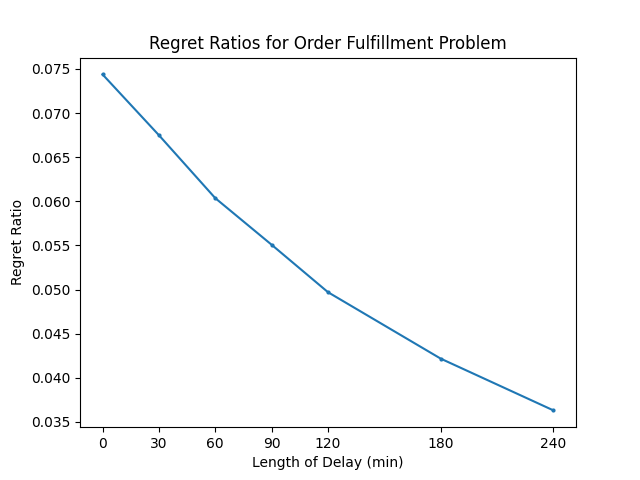
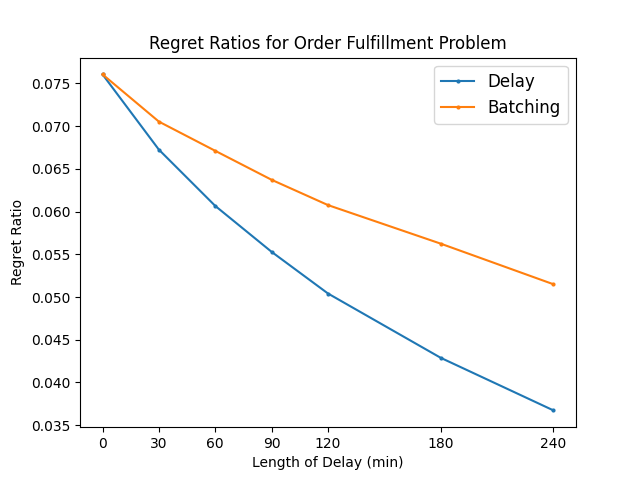
updates

diff --git a/fdc_rdc_fulfillment/online_offline.py b/fdc_rdc_fulfillment/online_offline.py
@@ -6,6 +6,7 @@ from tqdm import tqdm
 from lp_policy import lp_relax, ip, bayes_selector, lp_relax_obj2, ip_obj2
 import copy
 import datetime
+import math
 
 
 def offline(demand, inv_num, consume, flag, obj):
@@ -43,6 +44,10 @@ def current_demand(new_data, prob, order_list, current_time, delta, delay_num, d
 
     demand = [0] * len(order_list)
 
+    # Determine if current_time is on a weekend
+    is_weekend = current_time.dayofweek >= 5
+    day_type = 'weekend' if is_weekend else 'weekday'
+
     abs_time_list = new_data.index.tolist()
     end_time = current_time + delay_num * delay_period
     for t in abs_time_list:
@@ -55,9 +60,9 @@ def current_demand(new_data, prob, order_list, current_time, delta, delay_num, d
     current_delta_num = current // delta
     for i in range(len(order_list)):
         current_order = order_list[i]
-        demand[i] += (1 - (current % delta) / delta) * prob[current_order][current_delta_num]
+        demand[i] += (1 - (current % delta) / delta) * prob[day_type][current_order][current_delta_num]
         for num in range(current_delta_num + 1, delta_num):
-            demand[i] += prob[current_order][num]
+            demand[i] += prob[day_type][current_order][num]
     return demand
 
 
@@ -83,6 +88,85 @@ def online(new_data, prob, inv_num, consume, order_dict, order_list, delta, dela
             index = 1
             if current_order in order_list:
                 exp_demand = current_demand(new_data, prob, order_list, t, delta, delay_num, delay_period)
+
+                # decision = 0, 1
+                decision = bayes_selector(exp_demand, copy_inv, current_order, consume, order_list, obj)
+                if decision == 1:
+                    if obj == 'order':
+                        on_val += 1
+                    elif obj == 'item':
+                        on_val += quantity[order_list.index(current_order)]
+                    current_consume = order_dict[current_order]
+                    for sku_key, sku_quantity in current_consume.items():
+                        copy_inv[sku_key] -= sku_quantity
+        else:
+            break
+
+    if index == 0:
+        remain_list = time_list[time:]
+        print('end_time', t, 'remain', remain_list)
+        remain_order = new_data.loc[remain_list]['order_type'].values.tolist()
+        remain_demand = [remain_order.count(order_list[i]) for i in range(len(order_list))]
+        on_val += offline(remain_demand, copy_inv, consume, 'IP', obj)
+    return on_val
+
+
+def current_demand_batch(new_data, prob, order_list, current_time, delta, delay_num, delay_period):
+    # Note: time_delta = delay-period = 30min
+    one_day = datetime.timedelta(days=1)
+    delta_num = int(one_day / delta)
+
+    demand = [0] * len(order_list)
+
+    # Determine if current_time is on a weekend
+    is_weekend = current_time.dayofweek >= 5
+    day_type = 'weekend' if is_weekend else 'weekday'
+
+    abs_time_list = new_data.index.tolist()
+
+    ct = datetime.timedelta(hours=current_time.hour, minutes=current_time.minute, seconds=current_time.second)
+    if delay_num == 0:
+        end_time = current_time + delay_num * delay_period
+    else:
+        ct_remaining_num = ct % (delay_period * delay_num)
+        end_time = current_time + (delay_period * delay_num - ct_remaining_num)
+
+    for t in abs_time_list:
+        if current_time <= t <= end_time:
+            temp_order = new_data.loc[t, 'order_type']
+            if temp_order in order_list:
+                demand[order_list.index(temp_order)] += 1
+
+    # current = the end-time of this delay
+    current = datetime.timedelta(hours=end_time.hour, minutes=end_time.minute, seconds=end_time.second)
+    current_delta_num = current // delta
+    for i in range(len(order_list)):
+        current_order = order_list[i]
+        demand[i] += (1 - (current % delta) / delta) * prob[day_type][current_order][current_delta_num]
+        for num in range(current_delta_num + 1, delta_num):
+            demand[i] += prob[day_type][current_order][num]
+    return demand
+
+
+def batch(new_data, prob, inv_num, consume, order_dict, order_list, delta, delay_num, delay_period, obj):
+
+    on_val = 0
+    copy_inv = copy.deepcopy(inv_num)
+    time_list = new_data.index.tolist()
+
+    for time in tqdm(range(len(time_list))):
+        consume, order_list = update_order_bundle(copy_inv, consume, order_list)
+        quantity = np.sum(consume, axis=0)
+
+        t = time_list[time]
+        current_order = new_data.loc[t, 'order_type']
+        current = datetime.timedelta(hours=t.hour, minutes=t.minute, seconds=t.second)
+        # whether the final time period `time` is added
+        index = 0
+        if current + delay_num * delay_period < datetime.timedelta(hours=24):
+            index = 1
+            if current_order in order_list:
+                exp_demand = current_demand_batch(new_data, prob, order_list, t, delta, delay_num, delay_period)
 
                 # decision = 0, 1
                 decision = bayes_selector(exp_demand, copy_inv, current_order, consume, order_list, obj)

diff --git a/fdc_rdc_fulfillment/main_test.py b/fdc_rdc_fulfillment/main_test.py
@@ -6,7 +6,7 @@ import pandas as pd
 from tqdm import tqdm
 import datetime
 
-from online_offline import offline, online, current_demand
+from online_offline import offline, online, batch
 from setting import sku, inv_1, inv_2, order_demand, consume_mat
 from lp_policy import ip, lp_relax
 from sample import sample_filter
@@ -22,11 +22,12 @@ if __name__ == '__main__':
     :param new_data: Dataframe[order_time, order_type]
     :param consume: sku * order
     :param delay_period: the length of one period
+    
     :param delay_list: 
     :param delta: timedelta for `prob`
     """
 
-    fdc = 35
+    fdc = 46
     sett = sample_filter(fdc)
     # sett = np.load('D:/Pycharm/fulfillment_delay/jd_data/pre_data/setting.npy', allow_pickle=True)
     # sett = sett.item()
@@ -63,6 +64,7 @@ if __name__ == '__main__':
     total_ip_opt = 0
     total_lp_opt = 0
     total_online_val = [0] * len(delay_list)
+    total_batch_val = [0] * len(delay_list)
     runtime = datetime.timedelta(seconds=0)
 
     for i in range(len(day_set)):
@@ -81,7 +83,7 @@ if __name__ == '__main__':
         current_data = new_data.loc[d]
         time_list = current_data.index.tolist()
         # run algorithm
-        result[d] = {}
+        # result[d] = {}
         run_start = datetime.datetime.now()
 
         # optimal IP & LP
@@ -101,27 +103,38 @@ if __name__ == '__main__':
         total_lp_opt += lp_opt_val
 
         online_val = [0] * len(delay_list)
+        batch_val = [0] * len(delay_list)
         for K in delay_list:
-            on_res = online(current_data, prob, inv_num, consume, order_dict, order_list, delta, K, delay_period, obj)
+            if K == 0:
+                on_res = online(current_data, prob, inv_num, consume, order_dict, order_list, delta, K, delay_period, obj)
+                batch_res = on_res
+            else:
+                batch_res = batch(current_data, prob, inv_num, consume, order_dict, order_list, delta, K, delay_period, obj)
+                on_res = online(current_data, prob, inv_num, consume, order_dict, order_list, delta, K, delay_period, obj)
             online_val[delay_list.index(K)] = on_res
-            print(d, ' with delay', K, 'online: ', on_res)
+            batch_val[delay_list.index(K)] = batch_res
+            print(d, ' with delay', K, 'online', on_res, '; batch', batch_res)
             total_online_val[delay_list.index(K)] += on_res
-        result[d]['online_delay'] = online_val
+            total_batch_val[delay_list.index(K)] += batch_res
+        # result[d]['online_delay'] = online_val
+        # result[d]['online_batch'] = batch_val
         run_end = datetime.datetime.now()
         runtime += run_end - run_start
         # print(d, 'cur_val', res[d][4], 'opt_val', res[d][5], 'online', online_val)
-        print(d, 'IP_opt_val', ip_opt_val, 'LP_opt_val', lp_opt_val, 'online', online_val)
+        print(d, 'IP_opt_val', ip_opt_val, 'LP_opt_val', lp_opt_val, 'online', online_val, 'batch', batch_val)
 
     test_ip = total_ip_opt / len(day_set)
     test_lp = total_lp_opt / len(day_set)
     on_delay = [a / len(day_set) for a in total_online_val]
+    on_batch = [a / len(day_set) for a in total_batch_val]
     print('FDC', fdc, 'RDC', rdc)
     print('average IP value: ', test_ip, 'average LP value: ', test_lp)
-    print('average online values: ', on_delay)
+    print('average online values - delay: ', on_delay)
+    print('average online values - batch: ', on_batch)
     print('average running time: ', runtime / len(day_set) / len(delay_list))
 
     # save results
-    output = {"FDC": fdc, "RDC": rdc, "off_IP": test_ip, "off_LP": test_lp, "on_delay": on_delay,
+    output = {"FDC": fdc, "RDC": rdc, "off_IP": test_ip, "off_LP": test_lp, "on_delay": on_delay, "on_batch": on_batch,
               "delay": delay}
-    np.save('./result/fdc{FDC}_rdc{RDC}.npy'.format(FDC=fdc, RDC=rdc), output)
+    np.save('./new_result/time_batch_fdc{FDC}_rdc{RDC}.npy'.format(FDC=fdc, RDC=rdc), output)
 

diff --git a/fdc_rdc_fulfillment/setting.py b/fdc_rdc_fulfillment/setting.py
@@ -75,7 +75,8 @@ def order_demand(data, day_set, delta):
     order_id_list = data['order_ID'].unique().tolist()
     sku_list = data['sku_ID'].unique().tolist()
     order_dict = {}
-    prob = {}
+    # prob = {}
+    prob = {'weekday': {}, 'weekend': {}}
     index_j = 0
 
     one_day = datetime.timedelta(days=1)
@@ -93,6 +94,8 @@ def order_demand(data, day_set, delta):
         t = tmp[tmp['sku_ID'] == tmp_list[0]].index.tolist()
         time = datetime.timedelta(hours=t[0].hour, minutes=t[0].minute, seconds=t[0].second)
         current_delta = time // delta
+        tt = pd.to_datetime(t[0])
+        is_weekend = tt.dayofweek >= 5
 
         tmp_value = {}
         for j in range(0, len(tmp_list3)):
@@ -101,22 +104,32 @@ def order_demand(data, day_set, delta):
             key_list = list(order_dict.keys())
             value_list = list(order_dict.values())
             tmp_key = key_list[value_list.index(tmp_value)]
-            prob[tmp_key][current_delta] += 1
+            # prob[tmp_key][current_delta] += 1
+            prob['weekend' if is_weekend else 'weekday'][tmp_key][current_delta] += 1
             tmp_data = pd.DataFrame(data=[[tmp_key, t[0]]], columns=['order_type', 'order_time'])
             new_data = pd.concat([new_data, tmp_data])
         else:
             order_dict[index_j] = tmp_value
-            prob[index_j] = {}
-            for num in range(delta_num):
-                prob[index_j][num] = 0
-            prob[index_j][current_delta] = 1
+            # prob[index_j] = {}
+            # for num in range(delta_num):
+            #     prob[index_j][num] = 0
+            # prob[index_j][current_delta] = 1
+            prob['weekday'][index_j] = {n: 0 for n in range(delta_num)}
+            prob['weekend'][index_j] = {n: 0 for n in range(delta_num)}
+            prob['weekend' if is_weekend else 'weekday'][index_j][current_delta] = 1
             tmp_data = pd.DataFrame(data=[[index_j, t[0]]], columns=['order_type', 'order_time'])
             new_data = pd.concat([new_data, tmp_data])
             index_j += 1
 
+        # Normalize probabilities by the number of days in each category
+        weekday_count = sum(1 for d in day_set if pd.to_datetime(d).dayofweek < 5)
+        weekend_count = len(day_set) - weekday_count
+
     for o in range(index_j):
         for num in range(delta_num):
-            prob[o][num] = prob[o][num] / len(day_set)
+            # prob[o][num] = prob[o][num] / len(day_set)
+            prob['weekday'][o][num] /= weekday_count
+            prob['weekend'][o][num] /= weekend_count
 
     new_data = new_data.set_index('order_time')
     new_data = new_data.sort_index()

diff --git a/fdc_rdc_fulfillment/result_plot.py b/fdc_rdc_fulfillment/result_plot.py
@@ -7,29 +7,35 @@ import os
 
 
 if __name__ == '__main__':
-    results = os.listdir('./result')
+    results = os.listdir('./new_result')
     delay_list = [0, 30, 60, 90, 120, 180, 240]
     n = 0
     rt = [0] * (len(delay_list))
+    batch_rt = [0] * (len(delay_list))
     for i in results:
         print(i)
         n += 1
-        tmp = os.path.join('./result/'+i)
+        tmp = os.path.join('./new_result/'+i)
         instance = np.load(tmp, allow_pickle=True)
-        # {"FDC": fdc, "RDC": rdc, "off_IP": test_ip, "off_LP": test_lp, "on_delay": on_delay,
+        # {"FDC": fdc, "RDC": rdc, "off_IP": test_ip, "off_LP": test_lp, "on_delay": on_delay, "on_batch": on_batch,
         #               "delay": delay}
         instance = instance.item()
         # fdc = instance['FDC']
         # rdc = instance['RDC']
         offline = instance['off_LP']
         online = instance['on_delay']
+        batch = instance['on_batch']
         # regret_delay = [offline - on for on in online]
         ratio = [on / offline for on in online]
+        batch_ratio = [on / offline for on in batch]
         rt = [x + y for x, y in zip(rt, ratio)]
+        batch_rt = [x + y for x, y in zip(batch_rt, batch_ratio)]
 
     rt = [1 - r / n for r in rt]
+    batch_rt = [1 - r / n for r in batch_rt]
     print('The number of samples:', n)
-    print(rt)
+    print('delay', rt)
+    print('batch', batch_rt)
 
     # plt.title("Regret for Order Fulfillment Problem")
     # plt.xticks(delay_list)
@@ -46,7 +52,8 @@ if __name__ == '__main__':
     plt.xlabel("Length of Delay (min)")
     plt.ylabel("Regret Ratio")
     # plt.plot(delay_list, ratio, marker='o', markersize=2, label='FDC {FDC} and RDC {RDC}'.format(FDC=fdc, RDC=rdc))
-    plt.plot(delay_list, rt, marker='o', markersize=2)
-    # plt.legend(prop={"size": 12})
+    plt.plot(delay_list, rt, marker='o', markersize=2, label='Delay')
+    plt.plot(delay_list, batch_rt, marker='o', markersize=2, label='Batching')
+    plt.legend(prop={"size": 12})
     plt.savefig('ratio_fdc.png')
     plt.show()
